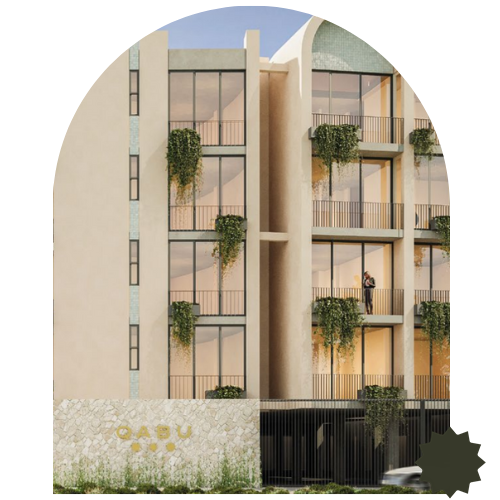
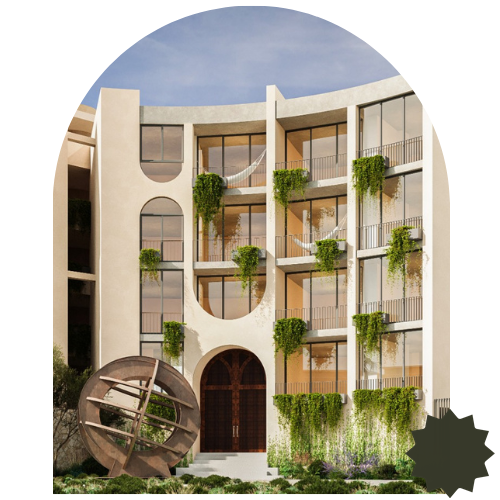
-

diff --git a/index.html b/index.html
@@ -232,18 +232,26 @@
             </div>
         </section>
 
+        <section id="nosotros" data-nav-color="dark" class="section-s">
+            <div class="row h-100 justify-content-center" data-aos="fade-in">
+                <div class="col-12 my-auto" data-aos="fade-in">
+                    <h3>La inversión perfecta para quienes buscan un lugar para disfrutar u obtener ingresos de alquiler.</h3>
+                </div>
+            </div>
+        </section>
+
         <section id="contacto" data-nav-color="dark" class="section-m">
             <div class="row h-100 justify-content-center px-5" data-aos="fade-in">
                 <div class="col-12 col-lg-7 px-lg-5">
                     <h2>Contacto</h2>
                     <p class="py-3">
-                       <b>¡Tengamos una llamada!</b><br>+52 669 331 3725<br>ventas@qabuboutiqueliving.com</p>
-                       <h3>
-                            <a href="https://www.instagram.com/qabuboutiqueliving/" target="_blank"><i class="fa-brands fa-instagram"></i></a>
-                            <a href="https://www.facebook.com/people/Qabu-Boutique-Living/61553008078330/?_rdr" target="_blank"><i class="fa-brands fa-square-facebook"></i></a>
-                        </h3>
-                   </div>
-                   <div class="col-12 col-lg-5 my-xxl-auto px-lg-5">
+                     <b>¡Tengamos una llamada!</b><br>+52 669 331 3725<br>ventas@qabuboutiqueliving.com</p>
+                     <h3>
+                        <a href="https://www.instagram.com/qabuboutiqueliving/" target="_blank"><i class="fa-brands fa-instagram"></i></a>
+                        <a href="https://www.facebook.com/people/Qabu-Boutique-Living/61553008078330/?_rdr" target="_blank"><i class="fa-brands fa-square-facebook"></i></a>
+                    </h3>
+                </div>
+                <div class="col-12 col-lg-5 my-xxl-auto px-lg-5 py-lg-0 py-3">
                     <p>
                         <b>Ubicación</b><br>De La Mojarra 4997, Sábalo Country, 82100 Mazatlán, Sin.</p>
                         <form action="enviar_correo.php" method="POST">

diff --git a/contacto.html b/contacto.html
@@ -46,7 +46,7 @@
     </nav>
 
     <section id="contacto" data-nav-color="green" class="section-m">
-        <div class="row h-100 justify-content-center px-5 my-5 py-5" data-aos="fade-in">
+        <div class="row h-100 justify-content-center px-5" data-aos="fade-in">
             <div class="col-12 col-lg-7 px-lg-5">
                 <h2>Contacto</h2>
                 <p class="py-3">
@@ -56,7 +56,7 @@
                     <a href="https://www.facebook.com/people/Qabu-Boutique-Living/61553008078330/?_rdr" target="_blank"><i class="fa-brands fa-square-facebook"></i></a>
                 </h3>
             </div>
-            <div class="col-12 col-lg-5 my-xxl-auto px-lg-5">
+            <div class="col-12 col-lg-5 my-xxl-auto px-lg-5 py-lg-0 py-3">
                 <p>
                     <b>Ubicación</b><br>De La Mojarra 4997, Sábalo Country, 82100 Mazatlán, Sin.</p>
                     <form action="enviar_correo.php" method="POST">
